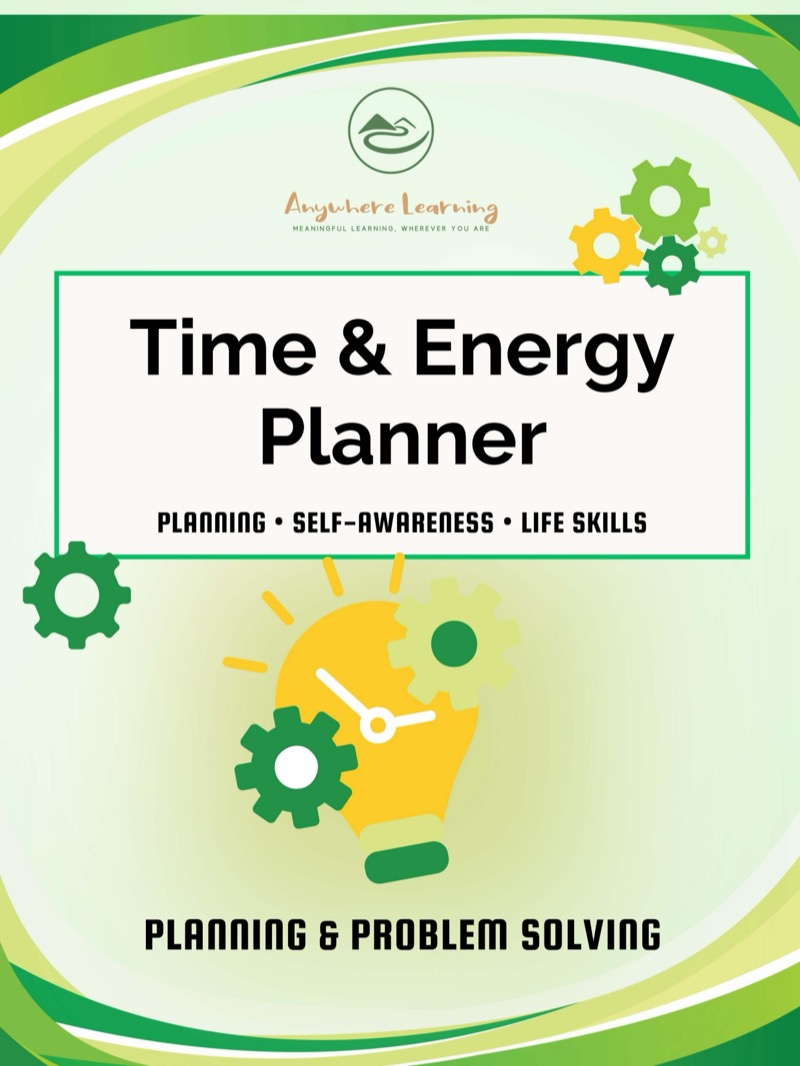
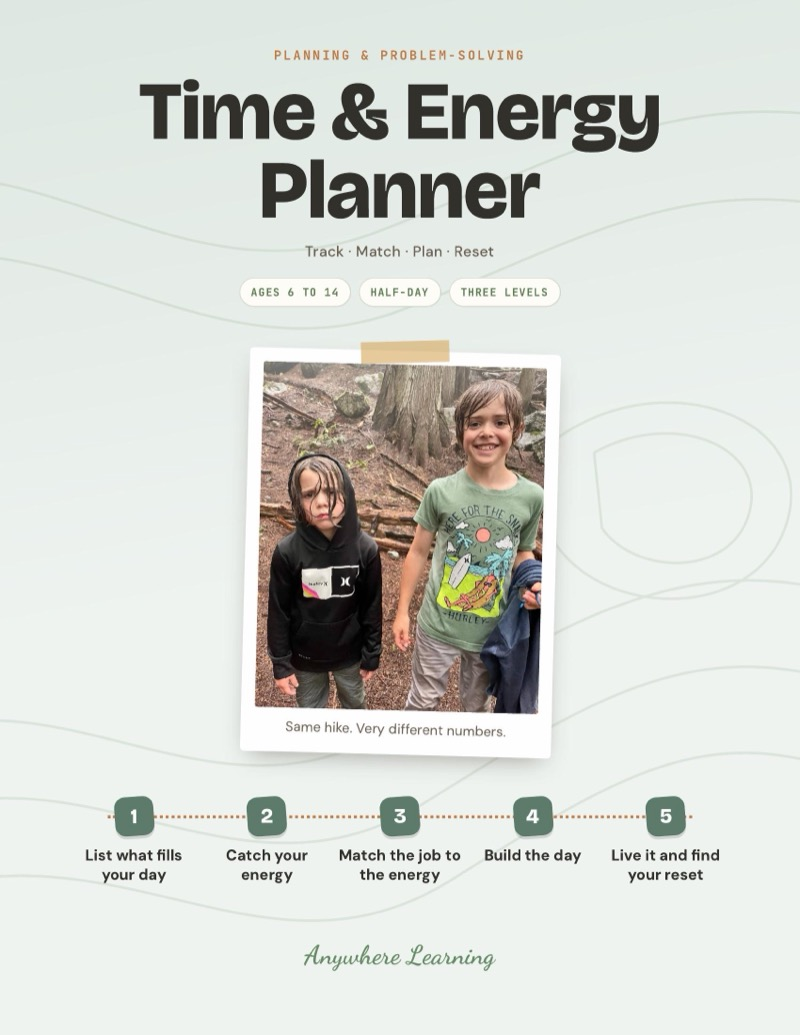
Time & Energy Planner: redesigned guide, rainy hike photo and story, new listing, ages 6-14

diff --git a/scripts/seed.ts b/scripts/seed.ts
@@ -55,7 +55,7 @@ async function seed() {
     { name: 'Micro-Business Challenge', slug: 'micro-business', description: 'Design a real business from scratch: idea, pricing, brand, marketing, and pitch.', shortDescription: 'Real entrepreneurship, not a simulation.', priceCents: 599, compareAtPriceCents: null, stripePriceId: 'price_1TFcTcAMzOBftCntZcUkdoFu', blobUrl: '', imageUrl: '/products/micro-business.jpg', category: 'entrepreneurship', isBundle: false, bundleProductIds: null, activityCount: null, ageRange: 'Ages 9\u201314', sortOrder: 130, active: true },
     { name: 'Problem-Solver Studio', slug: 'problem-solver', description: 'Your child takes something that keeps bugging them, like the water bottle they lose every week, and solves it for good. They find out why it keeps happening, get every idea out, build the simplest fix from what is around the house, test it for real and make a Version 2 that still works on a tired day.', shortDescription: 'Project for kids ages 6-14: find out why a problem keeps coming back, build a simple fix, test it and make Version 2.', priceCents: 599, compareAtPriceCents: null, stripePriceId: 'price_1TFcTcAMzOBftCntgT52Nlxh', blobUrl: '', imageUrl: '/products/problem-solver.jpg', category: 'planning-problem-solving', isBundle: false, bundleProductIds: null, activityCount: null, ageRange: 'Ages 6–14', sortOrder: 141, active: true },
     { name: 'Smart Shopper Lab', slug: 'smart-shopper', description: 'Your child makes a real purchase decision, with their own money or for something the family needs. They compare two options, build their own rubric, see both in person if they can, work out cost per use and hidden costs, and spot the marketing tricks. Then they wait two weeks before buying. Real-world STEM maths and media literacy, and the habit of thinking before spending.', shortDescription: 'Real-world maths (STEM) for kids ages 9-14: compare two real options, work out cost per use, spot the marketing, then wait before buying.', priceCents: 599, compareAtPriceCents: null, stripePriceId: 'price_1TFcTdAMzOBftCntoJjP3hy7', blobUrl: '', imageUrl: '/products/smart-shopper.jpg', category: 'real-world-math', isBundle: false, bundleProductIds: null, activityCount: null, ageRange: 'Ages 9\u201314', sortOrder: 112, active: true },
-    { name: 'Time & Energy Planner', slug: 'time-energy-planner', description: 'Map energy patterns, match tasks to brain power, build a real plan, test it, and fix what doesn\u2019t work.', shortDescription: 'Self-management that actually sticks.', priceCents: 599, compareAtPriceCents: null, stripePriceId: 'price_1TFcTdAMzOBftCntcxl1ggJF', blobUrl: '', imageUrl: '/products/time-energy-planner.jpg', category: 'planning-problem-solving', isBundle: false, bundleProductIds: null, activityCount: null, ageRange: 'Ages 9\u201314', sortOrder: 142, active: true },
+    { name: 'Time & Energy Planner', slug: 'time-energy-planner', description: 'Your child finds out when they have the most to give. They list what really fills their day, give themselves a fuel number at five moments from morning to night and draw their own energy line. Then they match each job to the right time, build a plan with room in it, live it and find out what brings them back when they run out.', shortDescription: 'Project for kids ages 6-14: track your own energy for a day, match jobs to the right time and find what brings you back.', priceCents: 599, compareAtPriceCents: null, stripePriceId: 'price_1TFcTdAMzOBftCntcxl1ggJF', blobUrl: '', imageUrl: '/products/time-energy-planner.jpg', category: 'planning-problem-solving', isBundle: false, bundleProductIds: null, activityCount: null, ageRange: 'Ages 6–14', sortOrder: 142, active: true },
     { name: 'Travel Day Itinerary Challenge', slug: 'travel-day', description: 'Your child plans a real day out, like a theme park, a zoo, a city or a travel day. They collect a must-do from each person, put the stops in the order that wastes the least time, build a timeline with buffers and a budget, and write a Plan B for what could go wrong. Then they lead the day and compare the plan with what really happened.', shortDescription: 'Planning activity for kids ages 6-14: plan a real day out with must-dos, a timeline, a budget and a Plan B.', priceCents: 599, compareAtPriceCents: null, stripePriceId: 'price_1TFcTeAMzOBftCntm89oK6q4', blobUrl: '', imageUrl: '/products/travel-day.jpg', category: 'planning-problem-solving', isBundle: false, bundleProductIds: null, activityCount: null, ageRange: 'Ages 6\u201314', sortOrder: 143, active: true },
     { name: 'Write It Like a Pro', slug: 'write-like-a-pro', description: 'Pick a writing style, write for a real audience, edit, and revise. Six formats, one finished piece.', shortDescription: 'Real writing for real audiences.', priceCents: 599, compareAtPriceCents: null, stripePriceId: 'price_1TFcTeAMzOBftCnti098zzDn', blobUrl: '', imageUrl: '/products/write-like-a-pro.jpg', category: 'communication-writing', isBundle: false, bundleProductIds: null, activityCount: null, ageRange: 'Ages 9\u201314', sortOrder: 120, active: true },
 

diff --git a/lib/product-descriptions.ts b/lib/product-descriptions.ts
@@ -1181,23 +1181,24 @@ export const productDescriptions: Record<string, ProductDescription> = {
   // ═══════════════════════════════════════════════════════════════════
   'time-energy-planner': {
     opening:
-      'Your child maps their own energy patterns, figures out when their brain actually works best, and builds a daily plan that matches hard tasks to high-energy windows. Then they test it in real life and fix what does not work. Self-awareness and planning skills that most adults never learn.',
+      'Your child finds out when they have the most to give. They list what really fills their day, give themselves a fuel number at five moments from morning to night and draw their own energy line. Then they match each job to the right time, build a plan with room in it, live it and find out what brings them back when they run out.',
     whatsIncluded: [
-      'Brain dump and task sorting by priority',
-      'Personal energy mapping throughout the day',
-      'Task-to-energy matching system',
-      'Time-blocked daily plan with buffers',
-      'Real-life testing and Version 2 revision',
+      'A 5-step guide from listing the day to finding your reset',
+      'A worked example that shows why timing beats trying harder',
+      'Where the day hides card and Fuel check card',
+      'Match it card and Resets card',
+      'My day plan page to fill in and keep',
     ],
-    skillTags: ['Planning', 'Self-Awareness', 'Life Skills'],
+    skillTags: ['Self-Awareness', 'Planning', 'Time Management', 'Self-Regulation', 'Life Skills'],
     insideTheLearning: {
       lead:
-        'Your child maps when they actually have energy across a day, then matches tasks to it instead of fighting it. Brain dump, sort by priority, block the day with buffers built in. Then they test it against a real day and find out where it was optimistic.',
+        'Your child learns that a good plan does not squeeze more in. It puts the hard things where they have the most to give and leaves room for the part of the day when they do not. They collect their own numbers, so the plan starts with how the day really feels.',
       skills: [
-        { skill: 'Executive Functioning', where: 'Dumping every task out, sorting by priority, and building a time-blocked plan' },
-        { skill: 'Planning', where: 'Matching hard tasks to high-energy hours and leaving buffers for reality' },
-        { skill: 'Emotional Regulation', where: 'Noticing their own patterns instead of pushing through and crashing' },
-        { skill: 'Problem-Solving', where: 'Testing the plan on a real day and fixing what did not survive' },
+        { skill: 'Self-Awareness', where: 'Catching their own energy at five moments and finding the highs and the crash' },
+        { skill: 'Science', where: 'Collecting real data and looking for what pushed the line up or down' },
+        { skill: 'Math', where: 'Drawing a line graph and working out how long things really take' },
+        { skill: 'Planning', where: 'Putting each job in the right time and leaving gaps for what runs long' },
+        { skill: 'Self-Regulation', where: 'Testing resets and choosing what really brings them back' },
       ],
     },
     format: 'Project Guide',

diff --git a/lib/fallback-products.ts b/lib/fallback-products.ts
@@ -739,20 +739,20 @@ export const fallbackProducts: FallbackProduct[] = [
     name: "Time & Energy Planner",
     slug: "time-energy-planner",
     description:
-      "Your child maps their energy patterns, figures out when their brain works best, and builds a daily plan that matches hard tasks to high-energy windows. Then they test it in real life and fix what doesn't work. Self-awareness most adults never learn.",
+      "Your child finds out when they have the most to give. They list what really fills their day, give themselves a fuel number at five moments from morning to night and draw their own energy line. Then they match each job to the right time, build a plan with room in it, live it and find out what brings them back when they run out.",
     shortDescription:
-      "Life skills for kids ages 9-14: map energy patterns, build a real daily plan, test it, and make it better. Self-management that sticks.",
+      "Project for kids ages 6-14: track your own energy for a day, match jobs to the right time and find what brings you back.",
     priceCents: 599,
     compareAtPriceCents: null,
     stripePriceId: "price_1TLrppAkIBECpwGmNrQ7gqOz",
     blobUrl: "",
     imageUrl: "/products/time-energy-planner.jpg",
-    previewFile: "Preview Planning & Problem-Solving Time & Energy Planner.pdf",
+    previewFile: "Preview Planning & Problem-Solving Time & Energy Planner v3.pdf",
     category: "planning-problem-solving",
     isBundle: false,
     bundleProductIds: null,
     activityCount: null,
-    ageRange: "Ages 9–14",
+    ageRange: "Ages 6–14",
     sortOrder: 142,
     active: true,
     createdAt: new Date("2025-04-01"),

diff --git a/lib/activity-blob-urls.ts b/lib/activity-blob-urls.ts
@@ -127,7 +127,7 @@ export const ACTIVITY_BLOB_URLS: Record<string, string> = {
   "teach-it-to-learn-it": "https://xkj3tzlgu6ylgllk.public.blob.vercel-storage.com/Communication%20%26%20Writing%20-%20Teach%20It%20To%20Learn%20It%20v6.pdf",
   "theme-park": "https://xkj3tzlgu6ylgllk.public.blob.vercel-storage.com/Creativity%20%26%20Maker%20Create%20a%20Theme%20Park%20or%20Adventure%20Course%20v4.pdf",
   "three-ais-one-question": "https://xkj3tzlgu6ylgllk.public.blob.vercel-storage.com/AI%20%2B%20Digital%20Literacy%20-%20THREE%20AIs%2C%20ONE%20QUESTION%20v2.pdf",
-  "time-energy-planner": "https://xkj3tzlgu6ylgllk.public.blob.vercel-storage.com/Planning%20%26%20Problem-Solving%20Time%20%26%20Energy%20Planner%20v2.pdf",
+  "time-energy-planner": "https://xkj3tzlgu6ylgllk.public.blob.vercel-storage.com/Planning%20%26%20Problem-Solving%20Time%20%26%20Energy%20Planner%20v3.pdf",
   "trade-it-up": "https://xkj3tzlgu6ylgllk.public.blob.vercel-storage.com/Entrepreneurship%20-%20Trade%20It%20Up%20v2.pdf",
   "trail-guide-creator": "https://xkj3tzlgu6ylgllk.public.blob.vercel-storage.com/Communication%20%26%20Writing%20-%20Trail%20Guide%20Creator%20v6.pdf",
   "transport-navigation-challenge": "https://xkj3tzlgu6ylgllk.public.blob.vercel-storage.com/Worldschooling%20-%20Transport%20%26%20Navigation%20Challenge%20v2.pdf",
